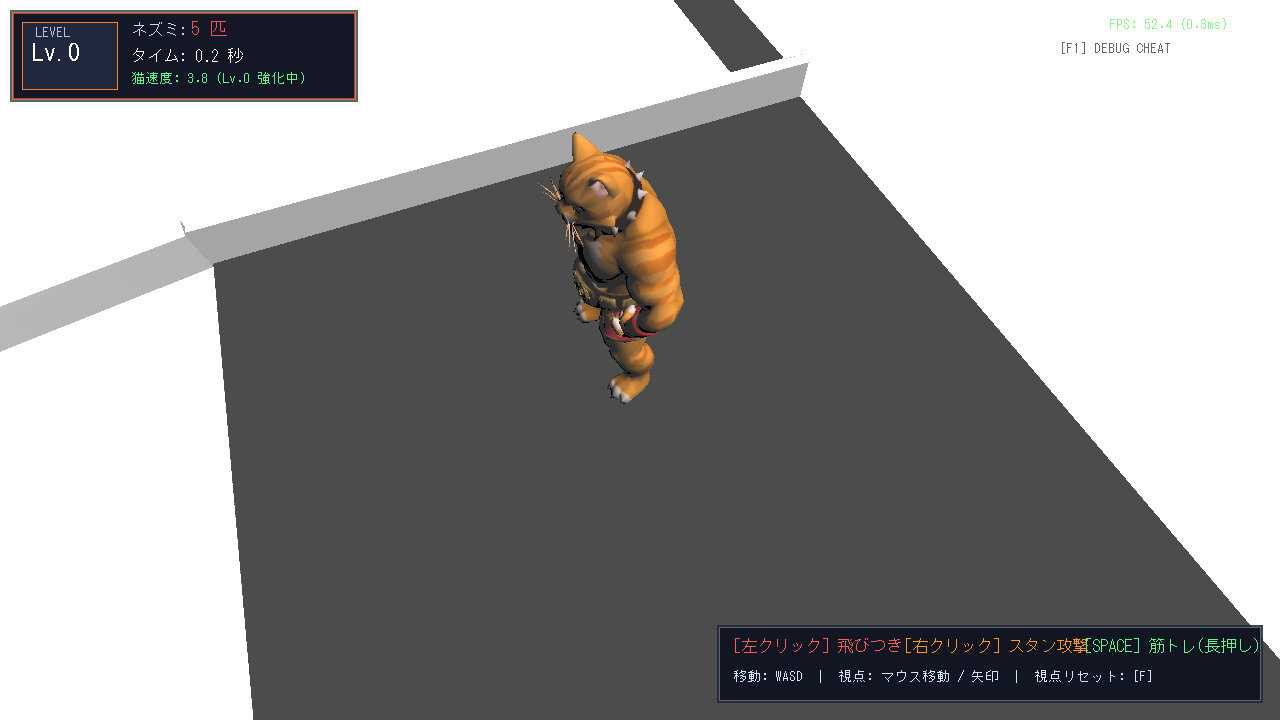
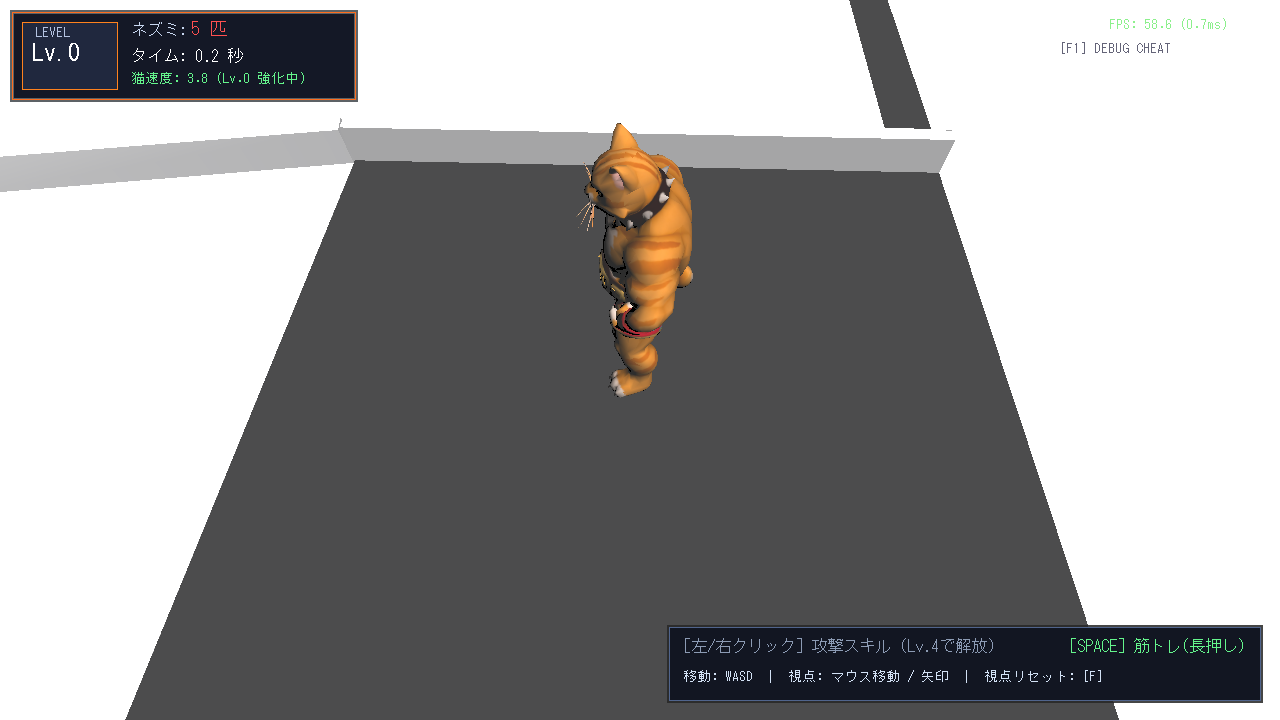
Require 4 Reps (Lv.4) for pounce and stun attacks, add feedback on insufficient reps, and update UI guides

Changed region(s): [[0.0, 0.0, 0.7812, 1.0], [0.5, 0.4583, 1.0, 1.0]]

diff --git a/Source/GameManager.cpp b/Source/GameManager.cpp
@@ -856,7 +856,7 @@ void GameManager::Draw()
         // =========================================================================
         // 2. 画面右下：スマート操作ガイドカード（マウス攻撃・視点移動対応）
         // =========================================================================
-        int gW = 540;
+        int gW = 590;
         int gH = 72;
         int gX = Config::SCREEN_WIDTH - gW - 20;
         int gY = Config::SCREEN_HEIGHT - gH - 20;
@@ -869,9 +869,38 @@ void GameManager::Draw()
         DrawBox(gX, gY, gX + gW, gY + gH, GetColor(18, 22, 34), TRUE);
 
         // 上段：アクションスキル（左クリック: 飛びつき、右クリック: スタン攻撃、SPACE: 筋トレ）
-        DrawStringToHandle(gX + 14, gY + 10, "[左クリック] 飛びつき", GetColor(255, 90, 90), font16);
-        DrawStringToHandle(gX + 185, gY + 10, "[右クリック] スタン攻撃", GetColor(255, 150, 40), font16);
-        DrawStringToHandle(gX + 365, gY + 10, "[SPACE] 筋トレ(長押し)", GetColor(100, 245, 140), font16);
+        if (reps >= 4)
+        {
+            float pounceCd = player ? static_cast<float>(player->GetPounceCooldown()) / 60.0f : 0.0f;
+            float tackleCd = player ? static_cast<float>(player->GetTackleCooldown()) / 60.0f : 0.0f;
+
+            if (pounceCd > 0.05f)
+            {
+                char buf[32];
+                snprintf(buf, sizeof(buf), "[左] 飛びつき(%.1fs)", pounceCd);
+                DrawStringToHandle(gX + 14, gY + 10, buf, GetColor(160, 170, 185), font16);
+            }
+            else
+            {
+                DrawStringToHandle(gX + 14, gY + 10, "[左クリック] 飛びつき", GetColor(255, 90, 90), font16);
+            }
+
+            if (tackleCd > 0.05f)
+            {
+                char buf[32];
+                snprintf(buf, sizeof(buf), "[右] スタン(%.1fs)", tackleCd);
+                DrawStringToHandle(gX + 200, gY + 10, buf, GetColor(160, 170, 185), font16);
+            }
+            else
+            {
+                DrawStringToHandle(gX + 200, gY + 10, "[右クリック] スタン攻撃", GetColor(255, 150, 40), font16);
+            }
+        }
+        else
+        {
+            DrawStringToHandle(gX + 14, gY + 10, "[左/右クリック] 攻撃スキル (Lv.4で解放)", GetColor(140, 155, 180), font16);
+        }
+        DrawStringToHandle(gX + 400, gY + 10, "[SPACE] 筋トレ(長押し)", GetColor(100, 245, 140), font16);
 
         // 下段：基本移動・カメラ
         DrawStringToHandle(gX + 14, gY + 42, "移動: WASD  |  視点: マウス移動 / 矢印  |  視点リセット: [F]", GetColor(210, 225, 245), font13);
@@ -1333,12 +1362,12 @@ void GameManager::DrawHowToPlayModal()
     DrawBox(c2X, cardY, c2X + cardW, cardY + cardH, GetColor(24, 30, 46), TRUE);
     DrawBox(c2X, cardY, c2X + cardW, cardY + 32, GetColor(55, 45, 40), TRUE);
     DrawBox(c2X, cardY + 30, c2X + cardW, cardY + 32, GetColor(255, 150, 40), TRUE);
-    DrawStringToHandle(c2X + 14, cardY + 6, "② アクション攻撃", GetColor(255, 150, 40), font16);
+    DrawStringToHandle(c2X + 14, cardY + 6, "② アクション (Lv.4~)", GetColor(255, 150, 40), font16);
 
     DrawStringToHandle(c2X + 14, cardY + 46, "・[右クリック / E] スタン攻撃", GetColor(255, 150, 40), font13);
-    DrawStringToHandle(c2X + 26, cardY + 68, "➔ 突進してネズミを気絶!", GetColor(255, 255, 255), font13);
+    DrawStringToHandle(c2X + 26, cardY + 68, "➔ 突進して気絶! (Lv.4以上)", GetColor(255, 255, 255), font13);
     DrawStringToHandle(c2X + 14, cardY + 104, "・[左クリック / SHIFT] 飛びつき", GetColor(255, 90, 90), font13);
-    DrawStringToHandle(c2X + 26, cardY + 126, "➔ 前方のネズミへ大跳躍!", GetColor(255, 255, 255), font13);
+    DrawStringToHandle(c2X + 26, cardY + 126, "➔ 前方へ跳躍捕獲! (Lv.4以上)", GetColor(255, 255, 255), font13);
 
     // --- CARD 3: 目標 ---
     int c3X = cardStartX + (cardW + gap) * 2;
@@ -1377,11 +1406,11 @@ void GameManager::DrawHowToPlayModal()
     DrawStringToHandle(col1X, row1Y + rowStep * 0, "[SPACE] 筋トレ (長押し)", GetColor(100, 245, 140), font16);
     DrawStringToHandle(col1X + 18, row1Y + rowStep * 0 + 20, "➔ 長押しして緑ゾーンで離す", GetColor(210, 225, 245), font13);
 
-    DrawStringToHandle(col1X, row1Y + rowStep * 1, "[右クリック / E] スタン攻撃 (突進)", GetColor(255, 150, 40), font16);
-    DrawStringToHandle(col1X + 18, row1Y + rowStep * 1 + 20, "➔ 突進してネズミを気絶させる", GetColor(210, 225, 245), font13);
+    DrawStringToHandle(col1X, row1Y + rowStep * 1, "[右クリック / E] スタン攻撃 (Lv.4~)", GetColor(255, 150, 40), font16);
+    DrawStringToHandle(col1X + 18, row1Y + rowStep * 1 + 20, "➔ 突進して気絶 (4 Rep以上で解放)", GetColor(210, 225, 245), font13);
 
-    DrawStringToHandle(col1X, row1Y + rowStep * 2, "[左クリック / SHIFT] 飛びつきジャンプ", GetColor(255, 90, 90), font16);
-    DrawStringToHandle(col1X + 18, row1Y + rowStep * 2 + 20, "➔ 前方のネズミへ跳躍して即捕獲", GetColor(210, 225, 245), font13);
+    DrawStringToHandle(col1X, row1Y + rowStep * 2, "[左クリック / SHIFT] 飛びつき (Lv.4~)", GetColor(255, 90, 90), font16);
+    DrawStringToHandle(col1X + 18, row1Y + rowStep * 2 + 20, "➔ 跳躍して即捕獲 (4 Rep以上で解放)", GetColor(210, 225, 245), font13);
 
     // 右列: 移動・カメラ
     DrawStringToHandle(col2X, row1Y + rowStep * 0, "移動: [W] [A] [S] [D]", GetColor(255, 255, 255), font16);

diff --git a/Source/Player3D.cpp b/Source/Player3D.cpp
@@ -242,6 +242,11 @@ void Player3D::UpdateWithCamera(const Camera3D& camera, const std::vector<VECTOR
         m_resultShowTimer--;
     }
 
+    if (m_needRepNoticeTimer > 0)
+    {
+        m_needRepNoticeTimer--;
+    }
+
     if (m_cheatNoCooldown)
     {
         m_pounceCooldown = 0;
@@ -444,6 +449,12 @@ void Player3D::UpdateWithCamera(const Camera3D& camera, const std::vector<VECTOR
 
             if (!m_isSkillChecking)
             {
+                // Rep不足（4 Rep未満）で飛びつきやスタン攻撃の入力があった場合、親切に案内テキストを表示
+                if ((isPounceJustPressed || isTackleJustPressed) && (m_repCount < REQUIRED_ATTACK_REP) && !m_cheatNoCooldown)
+                {
+                    m_needRepNoticeTimer = 90; // 1.5秒間案内表示
+                }
+
                 // スタン攻撃・タックル発動チェック（右クリック / Eキー）
                 if (CanTackle() && isTackleJustPressed)
                 {
@@ -1048,6 +1059,34 @@ void Player3D::Draw2D()
         SetDrawBlendMode(DX_BLENDMODE_ALPHA, alpha);
         DrawFormatStringToHandle(Config::SCREEN_WIDTH / 2 - 140, Config::SCREEN_HEIGHT / 2 - 70, GetColor(255, 230, 40), font24, "★ STUNNED!! 残り%.1fs ★", GetCatStunRemainingSeconds());
         DrawStringToHandle(Config::SCREEN_WIDTH / 2 - 120, Config::SCREEN_HEIGHT / 2 - 40, "壁・家具に激突して気絶中！", GetColor(255, 240, 120), font16);
+        SetDrawBlendMode(DX_BLENDMODE_NOBLEND, 0);
+    }
+
+    // 攻撃スキル解放に必要なRep不足案内（4 Rep未満で攻撃キー/マウスクリック時に通知）
+    if (m_needRepNoticeTimer > 0 && m_repCount < REQUIRED_ATTACK_REP && !m_isSkillChecking)
+    {
+        int alpha = (m_needRepNoticeTimer > 20) ? 255 : (m_needRepNoticeTimer * 255 / 20);
+        SetDrawBlendMode(DX_BLENDMODE_ALPHA, alpha);
+
+        auto DrawOutlinedTextCenter = [](int x, int y, const char* str, unsigned int textColor, int fontHandle)
+        {
+            unsigned int black = GetColor(0, 0, 0);
+            for (int ox = -2; ox <= 2; ++ox)
+            {
+                for (int oy = -2; oy <= 2; ++oy)
+                {
+                    if (ox != 0 || oy != 0)
+                    {
+                        DrawStringToHandle(x + ox, y + oy, str, black, fontHandle);
+                    }
+                }
+            }
+            DrawStringToHandle(x, y, str, textColor, fontHandle);
+        };
+
+        char noticeBuf[128];
+        snprintf(noticeBuf, sizeof(noticeBuf), "★ 飛びつき・スタン攻撃は Lv.%d (4 Rep) で解放！ [SPACE] で筋トレ！ ★", REQUIRED_ATTACK_REP);
+        DrawOutlinedTextCenter(Config::SCREEN_WIDTH / 2 - 250, Config::SCREEN_HEIGHT / 2 + 25, noticeBuf, GetColor(255, 210, 60), font18);
         SetDrawBlendMode(DX_BLENDMODE_NOBLEND, 0);
     }
 }

diff --git a/Source/Main.cpp b/Source/Main.cpp
@@ -92,7 +92,15 @@ int WINAPI WinMain(HINSTANCE hInstance, HINSTANCE hPrevInstance, LPSTR lpCmdLine
         if (isAutoTest)
         {
             autoTestFrame++;
-            if (autoTestFrame == 25)
+            if (autoTestFrame == 8)
+            {
+                game.SetShowHowToPlay(true);
+            }
+            else if (autoTestFrame == 14)
+            {
+                game.SetShowHowToPlay(false);
+            }
+            else if (autoTestFrame == 25)
             {
                 // マップ1（House）に切り替え
                 game.SwitchSelectedMap(ModelConfig::MapType::House);
@@ -273,11 +281,21 @@ int WINAPI WinMain(HINSTANCE hInstance, HINSTANCE hPrevInstance, LPSTR lpCmdLine
                 auto p = game.GetObjManager().GetPlayer();
                 if (p)
                 {
-                    bool canTackle = p->CanTackle();
-                    bool canPounce = p->CanPounce();
+                    // Lv.0（初期状態）では攻撃アクションがロックされていることを検証
+                    bool canTackleLv0 = p->CanTackle();
+                    bool canPounceLv0 = p->CanPounce();
+                    bool passLv0 = (!canTackleLv0 && !canPounceLv0);
+
+                    // Lv.4（4 Rep到達時）で攻撃アクションが解放されることを検証
+                    p->AddRep(4);
+                    bool canTackleLv4 = p->CanTackle();
+                    bool canPounceLv4 = p->CanPounce();
+                    bool passLv4 = (canTackleLv4 && canPounceLv4);
+
                     char buf[256];
-                    snprintf(buf, sizeof(buf), "AutoTest ATTACKS LV0: CanTackle=%s, CanPounce=%s\n",
-                        (canTackle ? "PASS" : "FAIL"), (canPounce ? "PASS" : "FAIL"));
+                    snprintf(buf, sizeof(buf), "AutoTest ATTACKS: Lv0_Locked=%s, Lv4_Unlocked=%s (Overall=%s)\n",
+                        (passLv0 ? "PASS" : "FAIL"), (passLv4 ? "PASS" : "FAIL"),
+                        (passLv0 && passLv4 ? "PASS" : "FAIL"));
                     LogTest(buf);
                 }
             }
@@ -311,7 +329,12 @@ int WINAPI WinMain(HINSTANCE hInstance, HINSTANCE hPrevInstance, LPSTR lpCmdLine
         // 自動テストスクリーンショット保存（描画後に行う）
         if (isAutoTest)
         {
-            if (autoTestFrame == 18)
+            if (autoTestFrame == 11)
+            {
+                SaveDrawScreenToPNG(0, 0, Config::SCREEN_WIDTH, Config::SCREEN_HEIGHT, "screenshot_how_to_play.png");
+                AppLogAdd("AutoTest: Saved screenshot_how_to_play.png\n");
+            }
+            else if (autoTestFrame == 18)
             {
                 SaveDrawScreenToPNG(0, 0, Config::SCREEN_WIDTH, Config::SCREEN_HEIGHT, "screenshot_title_map2.png");
                 AppLogAdd("AutoTest: Saved screenshot_title_map2.png\n");

diff --git a/Source/Player3D.h b/Source/Player3D.h
@@ -31,6 +31,7 @@ public:
     static constexpr float SPEED_SORENESS = 0.0f;
     static constexpr int   MAX_EFFECTIVE_REP = 15;  // 能力値反映上限 (レベル15)
     static constexpr int   PUMP_DECAY_FRAMES = 900; // Rep維持残りフレーム (15秒 = 900f)
+    static constexpr int   REQUIRED_ATTACK_REP = 4; // 飛びつき・スタン攻撃(タックル)解放に必要な最低Rep数
 
 private:
     float m_speed = SPEED_INITIAL;
@@ -56,6 +57,7 @@ private:
     bool  m_lastResultSuccess = false;
     bool  m_wasDecayed = false;
     int   m_scStoppedTimer = 0;      // キーを押した瞬間に針を止めて結果を見せる演出タイマー
+    int   m_needRepNoticeTimer = 0;  // Rep不足(Lv.4未満)時のアクション案内表示タイマー
 
     // 飛びつき（Pounce）関連
     bool   m_isPouncing = false;
@@ -370,9 +372,14 @@ public:
             return !m_isPouncing && !m_isTackling;
         }
         
-        return (m_state != MuscleState::Soreness) && (m_stunTimer <= 0) && !m_isSkillChecking && !m_isTackling && (m_pounceCooldown <= 0);
+        return (m_repCount >= REQUIRED_ATTACK_REP) && (m_state != MuscleState::Soreness) && (m_stunTimer <= 0) && !m_isSkillChecking && !m_isTackling && (m_pounceCooldown <= 0);
     }
     
+    int GetPounceCooldown() const
+    {
+        return m_pounceCooldown;
+    }
+
     float GetPounceCooldownRatio() const
     {
         if (m_cheatNoCooldown)
@@ -397,9 +404,19 @@ public:
             return !m_isTackling && !m_isPouncing;
         }
         
-        return (m_state != MuscleState::Soreness) && (m_stunTimer <= 0) && !m_isSkillChecking && !m_isPouncing && !m_isTackling && (m_tackleCooldown <= 0);
+        return (m_repCount >= REQUIRED_ATTACK_REP) && (m_state != MuscleState::Soreness) && (m_stunTimer <= 0) && !m_isSkillChecking && !m_isPouncing && !m_isTackling && (m_tackleCooldown <= 0);
     }
     
+    int GetTackleCooldown() const
+    {
+        return m_tackleCooldown;
+    }
+
+    bool IsAttackUnlocked() const
+    {
+        return (m_repCount >= REQUIRED_ATTACK_REP);
+    }
+
     float GetTackleCooldownRatio() const
     {
         if (m_cheatNoCooldown)

diff --git a/Source/GameManager.h b/Source/GameManager.h
@@ -89,6 +89,11 @@ public:
         return m_shouldQuit;
     }
 
+    void SetShowHowToPlay(bool show)
+    {
+        m_showHowToPlay = show;
+    }
+
     void SetFrameProcessTime(float ms)
     {
         m_frameProcessTimeMs = ms;
